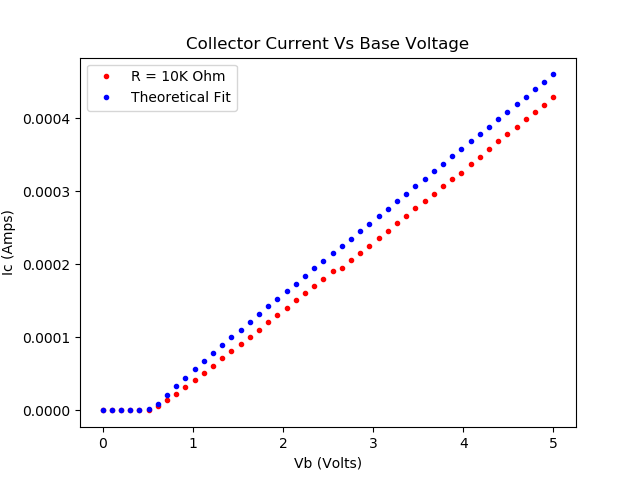
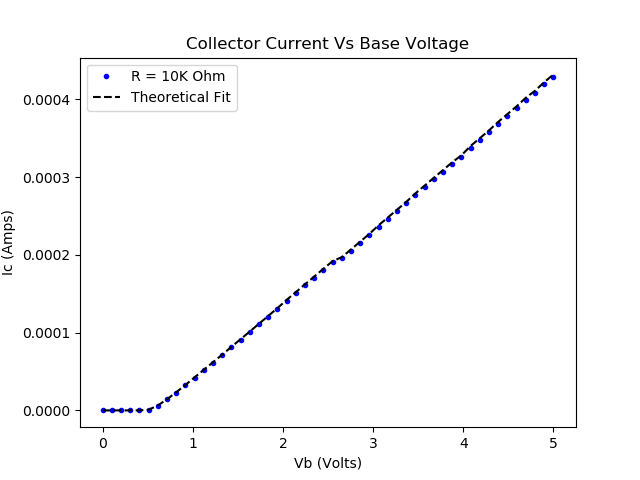
adding exp2  code

diff --git a/lab 3/exp2/GraphGmAll.py b/lab 3/exp2/GraphGmAll.py
@@ -6,6 +6,7 @@ import math
 import matplotlib.pyplot as plt
 from scipy.optimize import curve_fit
 from scipy import stats
+from Calcs import U_t, I_s
 
 # Importing Data
 #100 Ohm
@@ -34,8 +35,7 @@ Theo_Gm_100 = []
 Theo_Gm_1K = []
 Theo_Gm_10K = []
 
-B = 998
-U_t = 0.34
+B = 100
 #Calc I_c
 i = 0
 for x in I_b_100:
@@ -100,7 +100,7 @@ for x in I_b_10K:
         G_m10K.append(0)
     i = i+1
 
-    
+
 
 # Setting up plot
 title = "Incremental Transconductance Gain vs Collector Current"
@@ -123,9 +123,9 @@ xLabel = "Ic (Amps)"
 Data1 = plt.loglog(I_c_100, G_m100, 'ro', markersize=3, label="R = 100 Ohm")
 Data2 = plt.loglog(I_c_1K, G_m1K, 'bo', markersize=3, label="R = 1K Ohm")
 Data3 = plt.loglog(I_c_10K, G_m10K, 'go', markersize=3, label="R = 10K Ohm")
-Data4 = plt.loglog(I_c_100, Theo_Gm_100, 'c^', markersize=4, label="R = 100 Ohm Theoretical")
-Data5 = plt.loglog(I_c_1K, Theo_Gm_1K, 'm^', markersize=4, label="R = 1K Ohm Theoretical")
-Data6 = plt.loglog(I_c_10K, Theo_Gm_10K, 'k^', markersize=4, label="R = 10K Ohm Theoretical")
+Data4 = plt.loglog(I_c_100, Theo_Gm_100, 'c--', markersize=4, label="R = 100 Ohm Theoretical")
+Data5 = plt.loglog(I_c_1K, Theo_Gm_1K, 'm--', markersize=4, label="R = 1K Ohm Theoretical")
+Data6 = plt.loglog(I_c_10K, Theo_Gm_10K, 'k--', markersize=4, label="R = 10K Ohm Theoretical")
 
 # More plot settings
 plt.legend()

diff --git a/lab 3/exp2/GraphAll.py b/lab 3/exp2/GraphAll.py
@@ -6,6 +6,7 @@ import math
 import matplotlib.pyplot as plt
 from scipy.optimize import curve_fit
 from scipy import stats
+from Calcs import U_t, I_s, alpha, beta
 
 # Importing Data
 #100 Ohm
@@ -82,13 +83,8 @@ yLabel = "Ic (Amps)"
 
 Exp1_Ic_Theo = []
 
-slope, intercept, r_value, p_value, std_err = stats.linregress(Exp1_Vb,Exp1_Ic)
-U_T = (1/slope)
-
-
-
 for x in Exp1_Vb:
-    Exp1_Ic_Theo.append(1e-12*math.exp(x/U_T*1000))
+    Exp1_Ic_Theo.append(I_s*math.exp(x/U_t))
 
 
 # Plotting Data
@@ -96,8 +92,8 @@ for x in Exp1_Vb:
 Data1 = plt.semilogy(V_b_100, I_c_100, 'ro', markersize=3, label="R = 100 Ohm")
 Data2 = plt.semilogy(V_b_1K, I_c_1K, 'bo', markersize=3, label="R = 1K Ohm")
 Data3 = plt.semilogy(V_b_10K, I_c_10K, 'go', markersize=3, label="R = 10K Ohm")
-Data4 = plt.semilogy(Exp1_Vb, Exp1_Ic , 'k-', markersize=3, label="Collector Characteristic w/o Resistor")
-Data5 = plt.semilogy(Exp1_Vb, Exp1_Ic_Theo , 'p-', markersize=3, label="Theoretical Collector Characteristic w/o Resistor")
+Data4 = plt.semilogy(Exp1_Vb, Exp1_Ic_Theo , 'p-', markersize=3, label="Theoretical Collector Characteristic w/o Resistor")
+Data5 = plt.semilogy(Exp1_Vb, Exp1_Ic , 'k-', markersize=3, label="Collector Characteristic w/o Resistor")
 
 # More plot settings
 plt.legend()

diff --git a/lab 3/exp2/AllRb.py b/lab 3/exp2/AllRb.py
@@ -6,6 +6,7 @@ import math
 import matplotlib.pyplot as plt
 from scipy.optimize import curve_fit
 from scipy import stats
+from Calcs import U_t, I_s, alpha, beta
 
 # Importing Data
 #100 Ohm
@@ -34,7 +35,6 @@ Theo_Rb_100 = []
 Theo_Rb_1K = []
 Theo_Rb_10K = []
 
-B = 100
 #Calc I_c
 i = 0
 for x in I_b_100:
@@ -44,7 +44,7 @@ for x in I_b_100:
     I_e_100[i] = I_eval
     V_b_100[i] = float(V_b_100[i])
     I_c_100.append((-1*I_eval) - I_bval)
-    Theo_Rb_100.append((B+1)*100 + (0.34/I_bval))
+    Theo_Rb_100.append((beta+1)*100 + (U_t/I_bval))
 
     if(i != 0):
         yc = float(V_b_100[i])-float(V_b_100[i-1])
@@ -62,7 +62,7 @@ for x in I_b_1K:
     I_e_1K[i] = I_eval
     V_b_1K[i] = float(V_b_1K[i])
     I_c_1K.append((-1*I_eval) - I_bval)
-    Theo_Rb_1K.append((B+1)*1000 + (0.34/I_bval))
+    Theo_Rb_1K.append((beta+1)*1000 + (U_t/I_bval))
 
     if(i != 0):
         yc = float(V_b_1K[i])-float(V_b_1K[i-1])
@@ -80,7 +80,7 @@ for x in I_b_10K:
     I_e_10K[i] = I_eval
     V_b_10K[i] = float(V_b_10K[i])
     I_c_10K.append((-1*I_eval) - I_bval)
-    Theo_Rb_10K.append((B+1)*10000 + (0.34/I_bval))
+    Theo_Rb_10K.append((beta+1)*10000 + (U_t/I_bval))
 
     if(i != 0):
         yc = float(V_b_10K[i])-float(V_b_10K[i-1])

diff --git a/lab 3/exp2/Graph10K.py b/lab 3/exp2/Graph10K.py
@@ -6,6 +6,7 @@ import math
 import matplotlib.pyplot as plt
 from scipy.optimize import curve_fit
 from scipy import stats
+from Calcs import U_t, I_s, alpha
 
 # Importing Data
 
@@ -30,14 +31,8 @@ for x in I_b_10K:
 R = 10000
 i = 0
 for x in I_c_10K:
-    U_t = 0.34;
     I_eval = -1*float(I_e_10K[i])
-    V_bval = float(V_b_10K[i])
-    gm = x/U_t
-    re = U_t/I_eval
-    slope = gm/(1+(R/re))
-    print(I_eval, V_bval)
-    Theo_10K.append(slope* V_bval)
+    Theo_10K.append(I_eval* alpha)
     i = i+1
 
 # Setting up plot
@@ -58,8 +53,8 @@ yLabel = "Ic (Amps)"
 
 # Plotting Data
 
-Data1 = plt.plot(V_b_10K, I_c_10K, 'ro', markersize=3, label="R = 10K Ohm")
-Data2 = plt.plot(V_b_10K, Theo_10K, 'bo', markersize=3, label="Theoretical Fit")
+Data1 = plt.plot(V_b_10K, I_c_10K, 'bo', markersize=3, label="R = 10K Ohm")
+Data2 = plt.plot(V_b_10K, Theo_10K, 'k--', markersize=3, label="Theoretical Fit")
 # Data3 = plt.semilogy(V_b_10K, I_c_10K, 'go', markersize=3, label="R = 10K Ohm")
 # Data4 = plt.semilogy(Exp1_Vb, Exp1_Ic , 'k-', markersize=3, label="Collector Characteristic w/o Resistor")
 # Data5 = plt.semilogy(Exp1_Vb, Exp1_Ic_Theo , 'p-', markersize=3, label="Theoretical Collector Characteristic w/o Resistor")

diff --git a/lab 3/exp2/Graph100.py b/lab 3/exp2/Graph100.py
@@ -6,6 +6,7 @@ import math
 import matplotlib.pyplot as plt
 from scipy.optimize import curve_fit
 from scipy import stats
+from Calcs import U_t, I_s, alpha
 
 # Importing Data
 
@@ -30,13 +31,8 @@ for x in I_b_100:
 R = 100
 i = 0
 for x in I_c_100:
-    U_t = 0.34;
     I_eval = -1*float(I_e_100[i])
-    V_bval = float(V_b_100[i])
-    gm = x/U_t
-    re = U_t/I_eval
-    slope = gm/(1+(R/re))
-    Theo_100.append(slope* V_bval)
+    Theo_100.append(I_eval* alpha)
     i = i+1
 
 # Ut = []
@@ -68,8 +64,8 @@ yLabel = "Ic (Amps)"
 
 # Plotting Data
 
-Data1 = plt.plot(V_b_100, I_c_100, 'ro', markersize=3, label="R = 100 Ohm")
-Data2 = plt.plot(V_b_100, Theo_100, 'bo', markersize=3, label="Theoretical Fit")
+Data1 = plt.plot(V_b_100, I_c_100, 'bo', markersize=3, label="R = 100 Ohm")
+Data2 = plt.plot(V_b_100, Theo_100, 'k--', markersize=3, label="Theoretical Fit")
 # Data3 = plt.semilogy(V_b_100, I_c_100, 'go', markersize=3, label="R = 100 Ohm")
 # Data4 = plt.semilogy(Exp1_Vb, Exp1_Ic , 'k-', markersize=3, label="Collector Characteristic w/o Resistor")
 # Data5 = plt.semilogy(Exp1_Vb, Exp1_Ic_Theo , 'p-', markersize=3, label="Theoretical Collector Characteristic w/o Resistor")

diff --git a/lab 3/exp2/Graph1K.py b/lab 3/exp2/Graph1K.py
@@ -6,6 +6,7 @@ import math
 import matplotlib.pyplot as plt
 from scipy.optimize import curve_fit
 from scipy import stats
+from Calcs import U_t, I_s, alpha
 
 # Importing Data
 
@@ -30,13 +31,8 @@ for x in I_b_1K:
 R = 1000
 i = 0
 for x in I_c_1K:
-    U_t = 0.34;
     I_eval = -1*float(I_e_1K[i])
-    V_bval = float(V_b_1K[i])
-    gm = x/U_t
-    re = U_t/I_eval
-    slope = gm/(1+(R/re))
-    Theo_1K.append(slope* V_bval)
+    Theo_1K.append(I_eval*alpha)
     i = i+1
 
 # Setting up plot
@@ -57,8 +53,8 @@ yLabel = "Ic (Amps)"
 
 # Plotting Data
 
-Data1 = plt.plot(V_b_1K, I_c_1K, 'ro', markersize=3, label="R = 1K Ohm")
-Data2 = plt.plot(V_b_1K, Theo_1K, 'bo', markersize=3, label="Theoretical Fit")
+Data1 = plt.plot(V_b_1K, I_c_1K, 'bo', markersize=3, label="R = 1K Ohm")
+Data2 = plt.plot(V_b_1K, Theo_1K, 'k--', markersize=3, label="Theoretical Fit")
 # Data3 = plt.semilogy(V_b_10K, I_c_10K, 'go', markersize=3, label="R = 10K Ohm")
 # Data4 = plt.semilogy(Exp1_Vb, Exp1_Ic , 'k-', markersize=3, label="Collector Characteristic w/o Resistor")
 # Data5 = plt.semilogy(Exp1_Vb, Exp1_Ic_Theo , 'p-', markersize=3, label="Theoretical Collector Characteristic w/o Resistor")

diff --git a/lab 3/ExpConstantCalcs.py b/lab 3/ExpConstantCalcs.py
@@ -4,7 +4,6 @@ import math
 import matplotlib.pyplot as plt
 import numpy as np
 
-
 # Exp 1 Data
 Exp1_Ib = open('exp1/Ib.txt', 'r').read().split()
 Exp1_Ie = open('exp1/Ie.txt', 'r').read().split()
